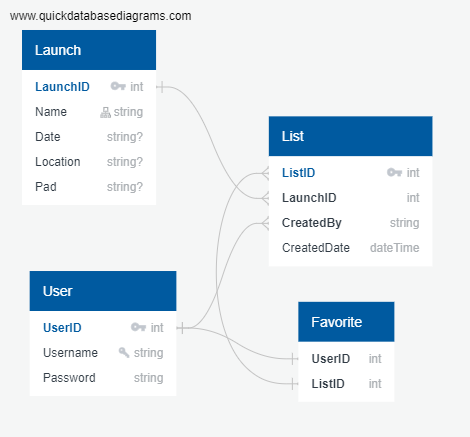
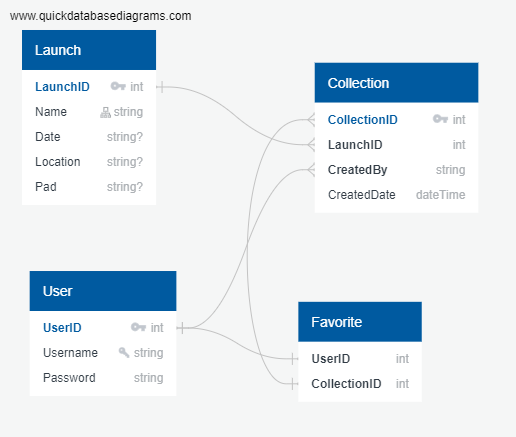
Added app.py, forms.py, & models.py. In LaunchTracker DB, renamed 'List' to 'Collection'

diff --git a/models.py b/models.py
@@ -1,0 +1,146 @@
+"""SQLAlchemy models for Warbler."""
+
+from datetime import datetime
+
+from flask_bcrypt import Bcrypt
+from flask_sqlalchemy import SQLAlchemy
+
+bcrypt = Bcrypt()
+db = SQLAlchemy()
+
+
+class User(db.Model):
+    """User details"""
+
+    __tablename__ = 'users'
+
+    id = db.Column(
+        db.Integer,
+        primary_key=True,
+    )
+
+    username = db.Column(
+        db.Text,
+        nullable=False,
+        unique=True,
+    )
+
+    email = db.Column(
+        db.Text,
+        nullable=False,
+        unique=True,
+    )
+
+    bio = db.Column(
+        db.Text,
+        nullable=True
+    )
+    
+    image_url = db.Column(
+        db.Text,
+        default="/static/images/default-pic.png",
+    )
+
+    header_image_url = db.Column(
+        db.Text,
+        default="/static/images/warbler-hero.jpg"
+    )
+
+    location = db.Column(
+        db.Text,
+        nullable=True
+    )
+
+    password = db.Column(
+        db.Text,
+        nullable=False,
+    )
+
+
+    collections = db.relationship(
+        "User",
+        secondary="collections"
+    )
+
+    favorites = db.relationship(
+        "User",
+        secondary="favorites"
+    )
+
+    def __repr__(self):
+        return f"<User #{self.id}: {self.username}, {self.email}>"
+
+
+
+class Launch(db.Model):
+    """Launch information"""
+
+    __tablename__ = 'launches' 
+
+    id = db.Column(
+        db.Integer,
+        primary_key=True
+    )
+
+    name = db.Column(
+        db.Text,
+        nullable=False,
+        unique=True,
+    )
+
+    date = db.Column(
+        db.Text,
+    )
+    
+    location = db.Column(
+        db.Text,
+    )
+
+    pad = db.Column(
+        db.Text,
+    )
+
+    def __repr__(self):
+        return f"<Launch #{self.id}: {self.name}, on {self.date}, at {self.location}, {self.pad}>"
+
+
+class Collection(db.Model):
+    """A collection of launches"""
+
+    __tablename__ = 'collections'
+
+    id = db.Column(
+        db.Integer,
+        primary_key=True,
+    )
+    
+    user_id = db.Column(
+        db.Integer,
+        db.ForeignKey('users.id', ondelete='CASCADE'),
+        nullable=False,
+    )
+
+    launch_id = db.Column(
+        db.Integer,
+        db.ForeignKey('launches.id', ondelete='CASCADE')
+    )
+
+    description = db.Column(
+        db.String,
+        nullable=True,
+    )
+
+    timestamp = db.Column(
+        db.DateTime,
+        nullable=False,
+        default=datetime.now()
+    )
+
+    user = db.relationship('User')
+
+
+
+def connect_db(app):
+    """Connect this database to provided Flask app."""
+    db.app = app
+    db.init_app(app)

diff --git a/forms.py b/forms.py
@@ -1,0 +1,17 @@
+from flask_wtf import FlaskForm
+from wtforms import StringField, PasswordField, TextAreaField
+from wtforms.validators import DataRequired, Email, Length
+
+class UserCreateForm(FlaskForm):
+    """Form for creating users."""
+
+    username = StringField('Username', validators=[DataRequired()])
+    email = StringField('E-mail', validators=[DataRequired(), Email()])
+    password = PasswordField('Password', validators=[Length(min=6)])
+    image_url = StringField('(Optional) Image URL')
+
+class LaunchListForm(FlaskForm):
+    """Form for making a list of launches"""
+
+    name = StringField('Name', validators=[DataRequired])
+    launch = StringField('Launch')

diff --git a/app.py b/app.py
@@ -1,0 +1,20 @@
+import os
+
+from flask import Flask, render_template, redirect, session, flash
+from flask_debugtoolbar import DebugToolbarExtension
+
+from models import connect_db
+
+app = Flask(__name__)
+
+app.config['SQLALCHEMY_DATABASE_URI'] = (
+    os.environ.get('DATABASE_URL', 'postgresql:///warbler')
+)
+
+app.config['SQLALCHEMY_TRACK_MODIFICATIONS'] = True
+app.config['SQLALCHEMY_ECHO'] = True
+app.config['DEBUG_TB_INTERCEPT_REDIRECTS'] = False
+app.config['SECRET_KEY'] = os.environ.get('SECRET_KEY', "it's a secret")
+toolbar = DebugToolbarExtension(app)
+
+connect_db(app)
